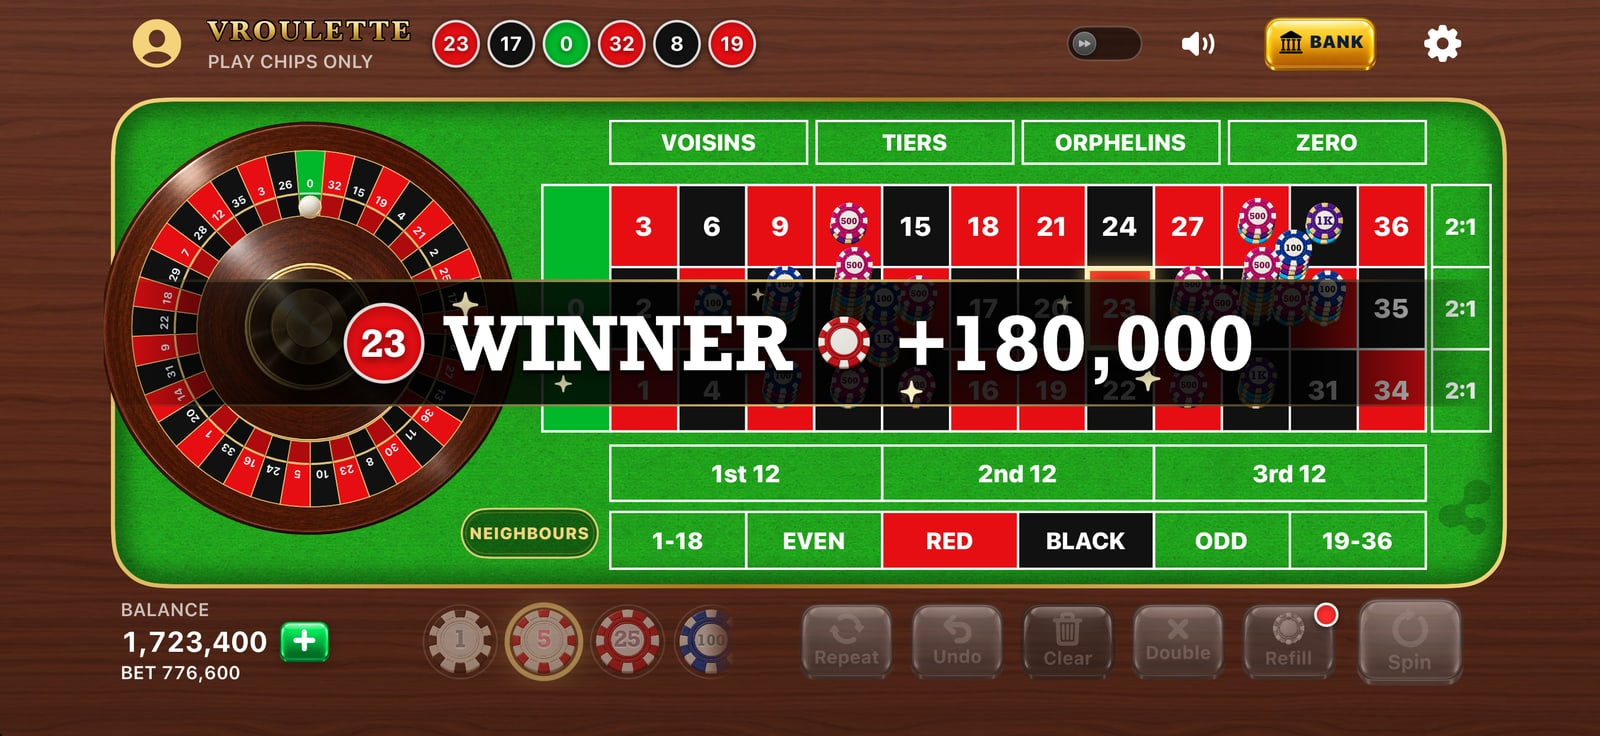
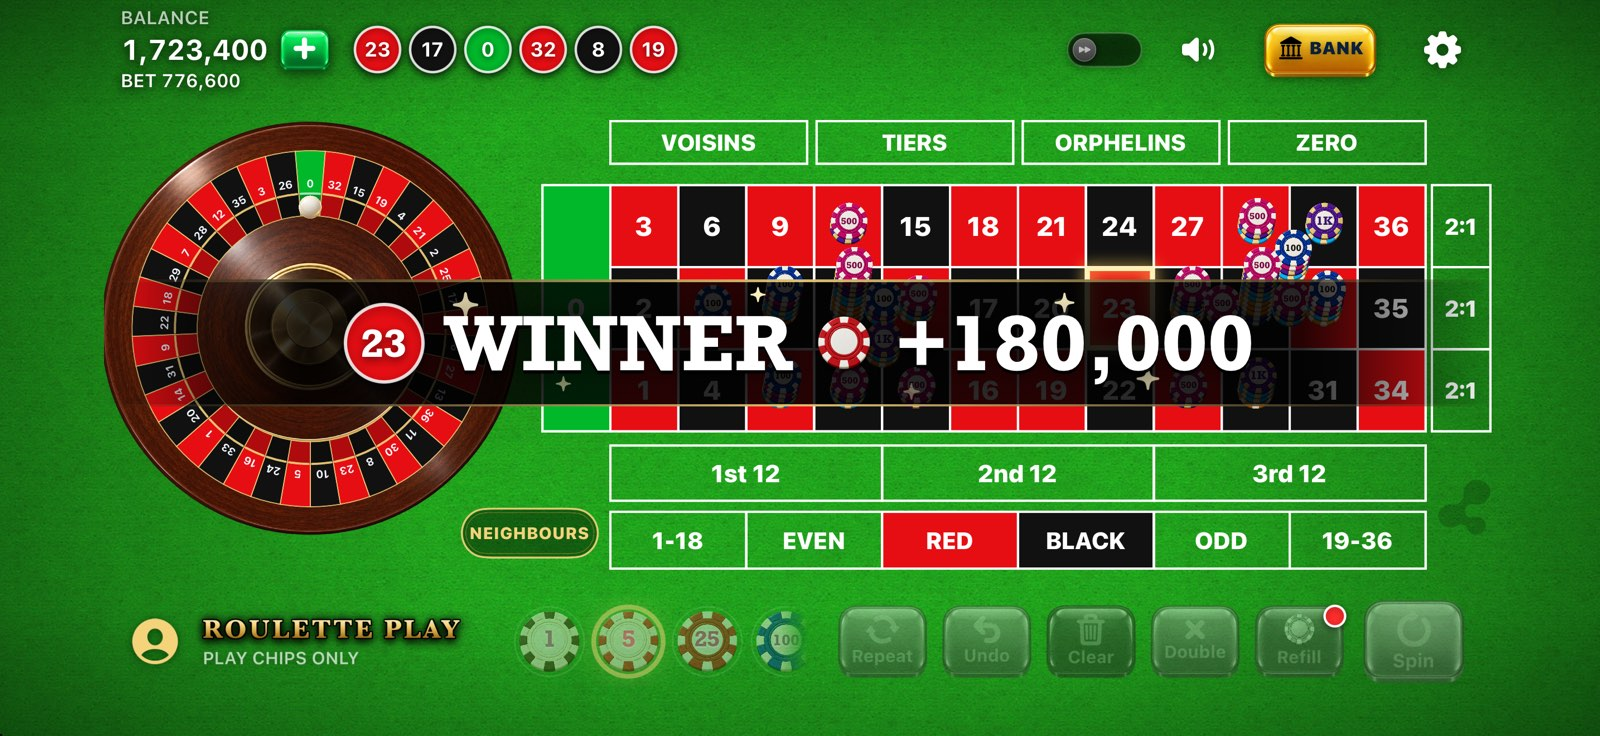
Rename Vroulette to Roulette Play across the site, with new borderless-table screenshots
Merge only once the renamed version is live on the App Store. The #vroulette anchor and asset paths stay.

diff --git a/index.html b/index.html
@@ -59,7 +59,7 @@
         </button>
         <nav class="nav" id="primary-nav">
           <a href="#learn-liquid-glass">Learn Liquid Glass</a>
-          <a href="#vroulette">Vroulette</a>
+          <a href="#vroulette">Roulette Play</a>
           <a href="/support/">Support</a>
           <a class="nav-cta" href="#contact">Work with us</a>
         </nav>
@@ -233,14 +233,14 @@
         <section class="app-feature app-feature-compact app-feature-vroulette" id="vroulette" aria-labelledby="vroulette-title" data-viewport="once">
           <header class="app-feature-head">
             <img class="app-feature-icon" src="/assets/vroulette/app-icon-v2.jpg" width="512" height="512" alt="" aria-hidden="true" decoding="async" />
-            <h2 id="vroulette-title">Vroulette</h2>
+            <h2 id="vroulette-title">Roulette Play</h2>
             <p class="app-feature-lead">
-              Classic roulette for iPhone and iPad. A full casino table, realistic wheel
+              Formerly Vroulette. Classic roulette for iPhone and iPad. A full casino table, realistic wheel
               spins, and your choice of European or American wheel &mdash; played with
               play chips only.
             </p>
-            <div class="store-badge-links" aria-label="Store badge for Vroulette">
-              <a href="https://apps.apple.com/app/vroulette/id6786365002" target="_blank" rel="noopener noreferrer" aria-label="Download Vroulette on the App Store">
+            <div class="store-badge-links" aria-label="Store badge for Roulette Play">
+              <a href="https://apps.apple.com/app/id6786365002" target="_blank" rel="noopener noreferrer" aria-label="Download Roulette Play on the App Store">
                 <img class="app-store-badge" src="/assets/badges/download-on-the-app-store.svg" alt="Download on the App Store" decoding="async" />
               </a>
             </div>
@@ -257,10 +257,10 @@
                 <div class="device device-iphone-landscape">
                   <div class="device-screen">
                     <img
-                      src="/assets/vroulette/iphone-table.jpg?v=20260928"
+                      src="/assets/vroulette/iphone-table.jpg?v=20261003"
                       width="1600"
                       height="736"
-                      alt="Vroulette on iPhone in landscape, with the roulette wheel beside a European table and stacks of play chips on several numbers."
+                      alt="Roulette Play on iPhone in landscape, with the roulette wheel beside a European table and stacks of play chips on several numbers."
                       loading="lazy"
                       decoding="async" />
                     <img class="device-bezel" src="/assets/vroulette/iphone-18-pro-max-landscape.png"
@@ -285,10 +285,10 @@
                   <div class="device device-iphone-landscape">
                     <div class="device-screen">
                       <img
-                        src="/assets/vroulette/iphone-winner-v2.jpg?v=20260928"
+                        src="/assets/vroulette/iphone-winner-v2.jpg?v=20261003"
                         width="1600"
                         height="736"
-                        alt="Vroulette on iPhone in landscape, showing the winning number 23 in a result banner across the table."
+                        alt="Roulette Play on iPhone in landscape, showing the winning number 23 in a result banner across the table."
                         loading="lazy"
                         decoding="async" />
                       <img class="device-bezel" src="/assets/vroulette/iphone-18-pro-max-landscape.png"
@@ -310,10 +310,10 @@
                 <div class="device device-iphone-landscape">
                   <div class="device-screen">
                     <img
-                      src="/assets/vroulette/iphone-customise.jpg?v=20260928"
+                      src="/assets/vroulette/iphone-customise.jpg?v=20261003"
                       width="1600"
                       height="736"
-                      alt="Vroulette on iPhone in landscape with a purple table theme and a gold roulette ball."
+                      alt="Roulette Play on iPhone in landscape with a purple table theme and a gold roulette ball."
                       loading="lazy"
                       decoding="async" />
                     <img class="device-bezel" src="/assets/vroulette/iphone-18-pro-max-landscape.png"
@@ -325,7 +325,7 @@
             </div>
           </div>
 
-          <ul class="app-feature-grid" aria-label="What Vroulette includes">
+          <ul class="app-feature-grid" aria-label="What Roulette Play includes">
             <li>
               <h3>European or American</h3>
               <p>Play the single-zero European wheel or the double-zero American wheel, each with its own table.</p>
@@ -344,7 +344,7 @@
             </li>
             <li>
               <h3>Game Center</h3>
-              <p>Bring your Game Center name and profile picture into Vroulette and find it alongside your other games.</p>
+              <p>Bring your Game Center name and profile picture into Roulette Play and find it alongside your other games.</p>
             </li>
             <li>
               <h3>Private by design</h3>
@@ -353,15 +353,15 @@
           </ul>
 
           <p class="app-feature-disclaimer">
-            Vroulette is simulated roulette for entertainment, intended for adults aged 18 and over.
+            Roulette Play is simulated roulette for entertainment, intended for adults aged 18 and over.
             It uses play chips only: there is no real-money gambling, cash-out, or prizes. Optional
             chip packs are in-app purchases processed by Apple; play chips have no cash value, can&rsquo;t
             be withdrawn or exchanged, and purchases never change the odds.
           </p>
 
           <div class="app-feature-close">
-            <div class="store-badge-links" aria-label="Store badge for Vroulette">
-              <a href="https://apps.apple.com/app/vroulette/id6786365002" target="_blank" rel="noopener noreferrer" aria-label="Download Vroulette on the App Store">
+            <div class="store-badge-links" aria-label="Store badge for Roulette Play">
+              <a href="https://apps.apple.com/app/id6786365002" target="_blank" rel="noopener noreferrer" aria-label="Download Roulette Play on the App Store">
                 <img class="app-store-badge" src="/assets/badges/download-on-the-app-store.svg" alt="Download on the App Store" decoding="async" />
               </a>
             </div>
@@ -454,7 +454,7 @@
             <h4>Explore</h4>
             <a href="/">Home</a>
             <a href="#learn-liquid-glass">Learn Liquid Glass</a>
-            <a href="#vroulette">Vroulette</a>
+            <a href="#vroulette">Roulette Play</a>
           </div>
           <div class="footer-col">
             <h4>Support</h4>

diff --git a/privacy/index.html b/privacy/index.html
@@ -6,7 +6,7 @@
     <title>Privacy Policy | Vibe Node Ltd</title>
     <meta
       name="description"
-      content="Privacy policy for Vibe Node Ltd apps including Learn Liquid Glass and Vroulette, covering local storage, StoreKit purchases, and website contact data."
+      content="Privacy policy for Vibe Node Ltd apps including Learn Liquid Glass and Roulette Play, covering local storage, StoreKit purchases, and website contact data."
     />
     <meta name="robots" content="index,follow" />
     <link rel="canonical" href="https://vibenode.co.uk/privacy/" />
@@ -15,7 +15,7 @@
     <meta property="og:title" content="Privacy Policy | Vibe Node Ltd" />
     <meta
       property="og:description"
-      content="Privacy policy for Vibe Node Ltd apps including Learn Liquid Glass and Vroulette, covering local storage, StoreKit purchases, and website contact data."
+      content="Privacy policy for Vibe Node Ltd apps including Learn Liquid Glass and Roulette Play, covering local storage, StoreKit purchases, and website contact data."
     />
     <meta property="og:url" content="https://vibenode.co.uk/privacy/" />
     <meta property="og:image" content="https://vibenode.co.uk/assets/brand/vibenode-og-1200x630.jpg" />
@@ -23,7 +23,7 @@
     <meta name="twitter:title" content="Privacy Policy | Vibe Node Ltd" />
     <meta
       name="twitter:description"
-      content="Privacy policy for Vibe Node Ltd apps including Learn Liquid Glass and Vroulette, covering local storage, StoreKit purchases, and website contact data."
+      content="Privacy policy for Vibe Node Ltd apps including Learn Liquid Glass and Roulette Play, covering local storage, StoreKit purchases, and website contact data."
     />
     <meta name="twitter:image" content="https://vibenode.co.uk/assets/brand/vibenode-og-1200x630.jpg" />
     <meta name="theme-color" content="#02050f" />
@@ -45,7 +45,7 @@
         <nav class="nav" id="primary-nav">
           <a href="/">Home</a>
           <a href="/#learn-liquid-glass">Learn Liquid Glass</a>
-          <a href="/#vroulette">Vroulette</a>
+          <a href="/#vroulette">Roulette Play</a>
           <a href="/support/">Support</a>
           <a class="nav-cta" href="/#contact">Work with us</a>
         </nav>
@@ -60,7 +60,7 @@
           <div class="about-copy">
             <p>
               Vibe Node Ltd respects your privacy. This policy covers our apps,
-              including Learn Liquid Glass for iPhone, iPad, and Mac, Vroulette
+              including Learn Liquid Glass for iPhone, iPad, and Mac, Roulette Play
               for iPhone and iPad, and the VibeNode website at vibenode.co.uk.
             </p>
             <p>
@@ -76,7 +76,7 @@
               Node Ltd.
             </p>
             <p>
-              Vroulette is simulated roulette for entertainment and uses play
+              Roulette Play is simulated roulette for entertainment and uses play
               chips only. It offers optional play-chip packs as in-app purchases,
               processed by Apple through the App Store. We never see or receive
               your payment details. Play chips have no cash value and cannot be
@@ -84,9 +84,9 @@
               gambling, and purchases never change the odds of any spin.
             </p>
             <p>
-              Vroulette offers optional sign-in with Apple Game Center. Game
+              Roulette Play offers optional sign-in with Apple Game Center. Game
               Center is provided by Apple and covered by Apple&rsquo;s privacy
-              policy. Vroulette does not store, collect, or share your Game Center
+              policy. Roulette Play does not store, collect, or share your Game Center
               name, identifier, or friends, and the game works the same if you
               are not signed in.
             </p>
@@ -110,7 +110,7 @@
           <div class="stats">
             <div class="stat">
               <span class="stat-number">App name</span>
-              <span class="stat-label">Learn Liquid Glass and Vroulette</span>
+              <span class="stat-label">Learn Liquid Glass and Roulette Play</span>
             </div>
             <div class="stat">
               <span class="stat-number">Publisher</span>
@@ -126,11 +126,11 @@
             </div>
             <div class="stat">
               <span class="stat-number">Purchases</span>
-              <span class="stat-label">Vroulette play-chip packs are processed by Apple; we never see payment details</span>
+              <span class="stat-label">Chip packs in Roulette Play are processed by Apple; we never see payment details</span>
             </div>
             <div class="stat">
               <span class="stat-number">Game Center</span>
-              <span class="stat-label">Optional in Vroulette and handled by Apple; nothing is stored or shared by us</span>
+              <span class="stat-label">Optional in Roulette Play and handled by Apple; nothing is stored or shared by us</span>
             </div>
             <div class="stat">
               <span class="stat-number">Data collected</span>
@@ -164,7 +164,7 @@
             <h4>Explore</h4>
             <a href="/">Home</a>
             <a href="/#learn-liquid-glass">Learn Liquid Glass</a>
-            <a href="/#vroulette">Vroulette</a>
+            <a href="/#vroulette">Roulette Play</a>
           </div>
           <div class="footer-col">
             <h4>Support</h4>

diff --git a/support/index.html b/support/index.html
@@ -6,7 +6,7 @@
     <title>Support | Vibe Node Ltd</title>
     <meta
       name="description"
-      content="Get support for Learn Liquid Glass, Vroulette, and other Vibe Node Ltd apps."
+      content="Get support for Learn Liquid Glass, Roulette Play, and other Vibe Node Ltd apps."
     />
     <meta name="robots" content="index,follow" />
     <link rel="canonical" href="https://vibenode.co.uk/support/" />
@@ -15,7 +15,7 @@
     <meta property="og:title" content="Support | Vibe Node Ltd" />
     <meta
       property="og:description"
-      content="Get support for Learn Liquid Glass, Vroulette, and other Vibe Node Ltd apps."
+      content="Get support for Learn Liquid Glass, Roulette Play, and other Vibe Node Ltd apps."
     />
     <meta property="og:url" content="https://vibenode.co.uk/support/" />
     <meta property="og:image" content="https://vibenode.co.uk/assets/brand/vibenode-og-1200x630.jpg" />
@@ -23,7 +23,7 @@
     <meta name="twitter:title" content="Support | Vibe Node Ltd" />
     <meta
       name="twitter:description"
-      content="Get support for Learn Liquid Glass, Vroulette, and other Vibe Node Ltd apps."
+      content="Get support for Learn Liquid Glass, Roulette Play, and other Vibe Node Ltd apps."
     />
     <meta name="twitter:image" content="https://vibenode.co.uk/assets/brand/vibenode-og-1200x630.jpg" />
     <meta name="theme-color" content="#02050f" />
@@ -45,7 +45,7 @@
         <nav class="nav" id="primary-nav">
           <a href="/">Home</a>
           <a href="/#learn-liquid-glass">Learn Liquid Glass</a>
-          <a href="/#vroulette">Vroulette</a>
+          <a href="/#vroulette">Roulette Play</a>
           <a class="nav-cta" href="/#contact">Work with us</a>
         </nav>
       </header>
@@ -53,12 +53,12 @@
       <section class="about">
         <div class="section-header">
           <h2>Support</h2>
-          <p>For Learn Liquid Glass, Vroulette, bug reports, or feedback, contact contact@vibenode.co.uk.</p>
+          <p>For Learn Liquid Glass, Roulette Play, bug reports, or feedback, contact contact@vibenode.co.uk.</p>
         </div>
         <div class="about-grid">
           <div class="about-copy">
             <p>
-              We are happy to help with Learn Liquid Glass and Vroulette
+              We are happy to help with Learn Liquid Glass and Roulette Play
               questions, app issues, store and installation questions, purchases,
               restore-purchase issues, and feedback.
             </p>
@@ -68,14 +68,14 @@
               are useful if you are reporting a visual issue.
             </p>
             <p>
-              Vroulette is simulated play only. It does not offer real-money
+              Roulette Play is simulated play only. It does not offer real-money
               gambling, cash-out, prize redemption, or trading, and purchases
               never change the odds.
             </p>
             <p>
-              Vroulette chip packs are consumable, so they are added to your
+              Roulette Play chip packs are consumable, so they are added to your
               balance once and can&rsquo;t be restored on another device. If
-              chips from a purchase don&rsquo;t appear, reopen Vroulette: pending
+              chips from a purchase don&rsquo;t appear, reopen the app: pending
               purchases are added automatically. For refunds, use
               <a href="https://reportaproblem.apple.com" target="_blank" rel="noopener noreferrer">reportaproblem.apple.com</a>,
               as Apple handles all payments.
@@ -90,7 +90,7 @@
           <div class="stats">
             <div class="stat">
               <span class="stat-number">App</span>
-              <span class="stat-label">Learn Liquid Glass and Vroulette</span>
+              <span class="stat-label">Learn Liquid Glass and Roulette Play</span>
             </div>
             <div class="stat">
               <span class="stat-number">Support email</span>
@@ -140,7 +140,7 @@
             <h4>Explore</h4>
             <a href="/">Home</a>
             <a href="/#learn-liquid-glass">Learn Liquid Glass</a>
-            <a href="/#vroulette">Vroulette</a>
+            <a href="/#vroulette">Roulette Play</a>
           </div>
           <div class="footer-col">
             <h4>Support</h4>

diff --git a/terms/index.html b/terms/index.html
@@ -6,7 +6,7 @@
     <title>Terms of Service | Vibe Node Ltd</title>
     <meta
       name="description"
-      content="Review Vibe Node Ltd terms for website usage, app support information, and Vroulette simulated play."
+      content="Review Vibe Node Ltd terms for website usage, app support information, and Roulette Play simulated play."
     />
     <meta name="robots" content="index,follow" />
     <link rel="canonical" href="https://vibenode.co.uk/terms/" />
@@ -15,7 +15,7 @@
     <meta property="og:title" content="Terms of Service | Vibe Node Ltd" />
     <meta
       property="og:description"
-      content="Review Vibe Node Ltd terms for website usage, app support information, and Vroulette simulated play."
+      content="Review Vibe Node Ltd terms for website usage, app support information, and Roulette Play simulated play."
     />
     <meta property="og:url" content="https://vibenode.co.uk/terms/" />
     <meta property="og:image" content="https://vibenode.co.uk/assets/brand/vibenode-og-1200x630.jpg" />
@@ -23,7 +23,7 @@
     <meta name="twitter:title" content="Terms of Service | Vibe Node Ltd" />
     <meta
       name="twitter:description"
-      content="Review Vibe Node Ltd terms for website usage, app support information, and Vroulette simulated play."
+      content="Review Vibe Node Ltd terms for website usage, app support information, and Roulette Play simulated play."
     />
     <meta name="twitter:image" content="https://vibenode.co.uk/assets/brand/vibenode-og-1200x630.jpg" />
     <meta name="theme-color" content="#02050f" />
@@ -45,7 +45,7 @@
         <nav class="nav" id="primary-nav">
           <a href="/">Home</a>
           <a href="/#learn-liquid-glass">Learn Liquid Glass</a>
-          <a href="/#vroulette">Vroulette</a>
+          <a href="/#vroulette">Roulette Play</a>
           <a href="/support/">Support</a>
           <a class="nav-cta" href="/#contact">Work with us</a>
         </nav>
@@ -73,12 +73,12 @@
               download or purchase.
             </p>
             <p>
-              Vroulette is simulated play only. Play chips have no cash value
+              Roulette Play is simulated play only. Play chips have no cash value
               and cannot be withdrawn, traded, transferred, redeemed, or
               exchanged for money, prizes, or anything of value. Optional
               play-chip packs are consumable in-app purchases processed by Apple
               and subject to Apple&rsquo;s terms; they add play chips only and
-              never change the odds of any spin. Vroulette is intended for
+              never change the odds of any spin. Roulette Play is intended for
               adults aged 18 and over.
             </p>
             <p>
@@ -100,7 +100,7 @@
               <span class="stat-label">Service provided as-is to the extent allowed by law</span>
             </div>
             <div class="stat">
-              <span class="stat-number">Vroulette</span>
+              <span class="stat-number">Roulette Play</span>
               <span class="stat-label">Simulated play for adults, with no cash-out or prize redemption</span>
             </div>
             <div class="stat">
@@ -135,7 +135,7 @@
             <h4>Explore</h4>
             <a href="/">Home</a>
             <a href="/#learn-liquid-glass">Learn Liquid Glass</a>
-            <a href="/#vroulette">Vroulette</a>
+            <a href="/#vroulette">Roulette Play</a>
           </div>
           <div class="footer-col">
             <h4>Support</h4>

diff --git a/legal/index.html b/legal/index.html
@@ -54,7 +54,7 @@
             <p>© 2026 Vibe Node Ltd. All Rights Reserved.</p>
             <p>
               Learn Liquid Glass is an educational app created and published by
-              Vibe Node Ltd. Vroulette is a simulated roulette game played with
+              Vibe Node Ltd. Roulette Play is a simulated roulette game played with
               play chips that have no cash value, created and published by
               Vibe Node Ltd.
             </p>
@@ -65,7 +65,7 @@
               registered in the U.S. and other countries and regions.
             </p>
             <p>
-              Learn Liquid Glass and Vroulette are not endorsed by, affiliated
+              Learn Liquid Glass and Roulette Play are not endorsed by, affiliated
               with, or sponsored by Apple Inc. The apps use Apple SDKs under the Apple Developer
               Program License Agreement.
             </p>
@@ -77,7 +77,7 @@
             </div>
             <div class="stat">
               <span class="stat-number">App</span>
-              <span class="stat-label">Learn Liquid Glass and Vroulette</span>
+              <span class="stat-label">Learn Liquid Glass and Roulette Play</span>
             </div>
             <div class="stat">
               <span class="stat-number">Apple marks</span>
